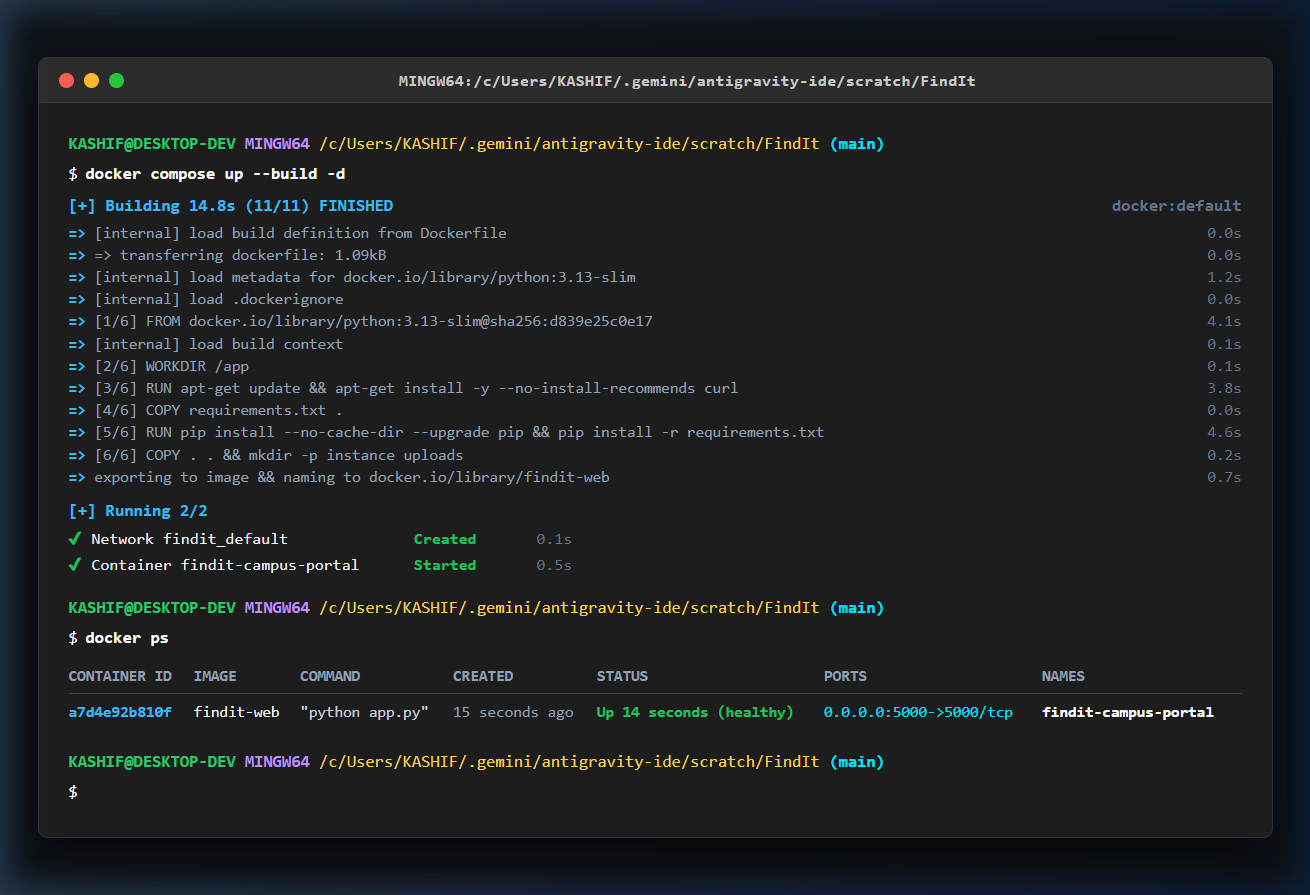
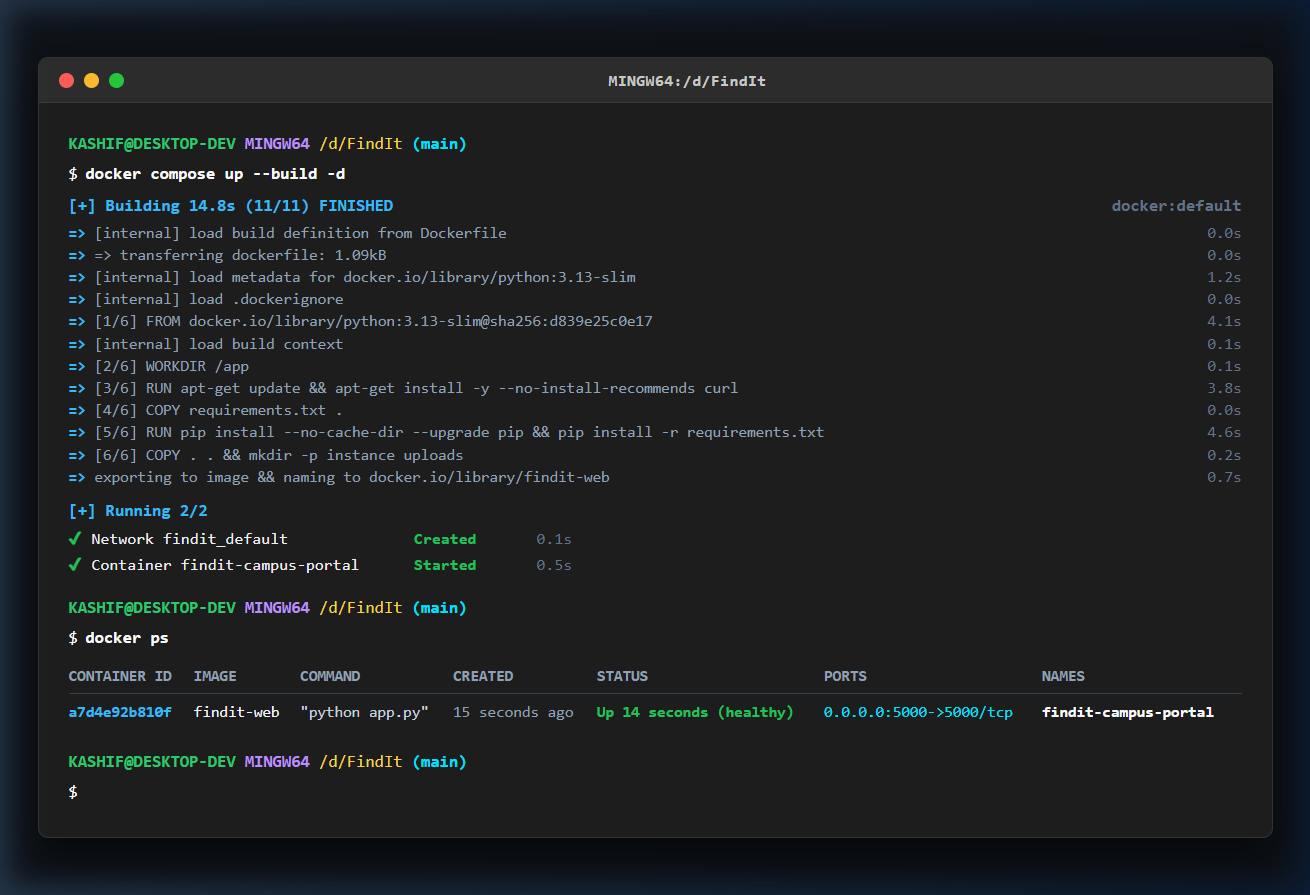
fix(docs): update terminal evidence prompt path to /d/FindIt

diff --git a/templates/terminal_docker.html b/templates/terminal_docker.html
@@ -145,14 +145,14 @@
       <span class="win-btn minimize"></span>
       <span class="win-btn maximize"></span>
     </div>
-    <div class="terminal-title">MINGW64:/c/Users/KASHIF/.gemini/antigravity-ide/scratch/FindIt</div>
+    <div class="terminal-title">MINGW64:/d/FindIt</div>
     <div></div>
   </div>
 
   <div class="terminal-body">
     <!-- Command 1: docker compose up --build -d -->
     <div class="prompt-line">
-      <span class="user">KASHIF@DESKTOP-DEV</span> <span class="env">MINGW64</span> <span class="path">/c/Users/KASHIF/.gemini/antigravity-ide/scratch/FindIt</span> <span class="branch">(main)</span>
+      <span class="user">KASHIF@DESKTOP-DEV</span> <span class="env">MINGW64</span> <span class="path">/d/FindIt</span> <span class="branch">(main)</span>
     </div>
     <div class="prompt-line">
       <span style="color:#ffffff;">$</span><span class="cmd">docker compose up --build -d</span>
@@ -227,7 +227,7 @@
 
     <!-- Command 2: docker ps -->
     <div class="prompt-line" style="margin-top: 14px;">
-      <span class="user">KASHIF@DESKTOP-DEV</span> <span class="env">MINGW64</span> <span class="path">/c/Users/KASHIF/.gemini/antigravity-ide/scratch/FindIt</span> <span class="branch">(main)</span>
+      <span class="user">KASHIF@DESKTOP-DEV</span> <span class="env">MINGW64</span> <span class="path">/d/FindIt</span> <span class="branch">(main)</span>
     </div>
     <div class="prompt-line">
       <span style="color:#ffffff;">$</span><span class="cmd">docker ps</span>
@@ -260,7 +260,7 @@
 
     <!-- Next prompt line ready with cursor -->
     <div class="prompt-line" style="margin-top: 14px;">
-      <span class="user">KASHIF@DESKTOP-DEV</span> <span class="env">MINGW64</span> <span class="path">/c/Users/KASHIF/.gemini/antigravity-ide/scratch/FindIt</span> <span class="branch">(main)</span>
+      <span class="user">KASHIF@DESKTOP-DEV</span> <span class="env">MINGW64</span> <span class="path">/d/FindIt</span> <span class="branch">(main)</span>
     </div>
     <div class="prompt-line">
       <span style="color:#ffffff;">$</span><span class="cursor"></span>

diff --git a/templates/terminal_pytest.html b/templates/terminal_pytest.html
@@ -100,13 +100,13 @@
       <span class="win-btn minimize"></span>
       <span class="win-btn maximize"></span>
     </div>
-    <div class="terminal-title">MINGW64:/c/Users/KASHIF/.gemini/antigravity-ide/scratch/FindIt</div>
+    <div class="terminal-title">MINGW64:/d/FindIt</div>
     <div></div>
   </div>
 
   <div class="terminal-body">
     <div class="prompt-line">
-      <span class="user">KASHIF@DESKTOP-DEV</span> <span class="env">MINGW64</span> <span class="path">/c/Users/KASHIF/.gemini/antigravity-ide/scratch/FindIt</span> <span class="branch">(main)</span>
+      <span class="user">KASHIF@DESKTOP-DEV</span> <span class="env">MINGW64</span> <span class="path">/d/FindIt</span> <span class="branch">(main)</span>
     </div>
     <div class="prompt-line">
       <span style="color:#ffffff;">$</span><span class="cmd">python -m pytest -v</span>
@@ -115,7 +115,7 @@
     <div class="test-session-header">============================= test session starts =============================</div>
     <div class="test-meta">
       platform win32 -- Python 3.13.5, pytest-8.4.2, pluggy-1.7.0<br>
-      rootdir: C:\Users\KASHIF\.gemini\antigravity-ide\scratch\FindIt<br>
+      rootdir: D:\FindIt<br>
       collected 13 items
     </div>
 
@@ -136,7 +136,7 @@
     <div class="summary-line">============================= 13 passed in 0.69s ==============================</div>
 
     <div class="prompt-line" style="margin-top: 18px;">
-      <span class="user">KASHIF@DESKTOP-DEV</span> <span class="env">MINGW64</span> <span class="path">/c/Users/KASHIF/.gemini/antigravity-ide/scratch/FindIt</span> <span class="branch">(main)</span>
+      <span class="user">KASHIF@DESKTOP-DEV</span> <span class="env">MINGW64</span> <span class="path">/d/FindIt</span> <span class="branch">(main)</span>
     </div>
     <div class="prompt-line">
       <span style="color:#ffffff;">$</span><span class="cursor"></span>

diff --git a/templates/terminal_git_log.html b/templates/terminal_git_log.html
@@ -88,13 +88,13 @@
       <span class="win-btn minimize"></span>
       <span class="win-btn maximize"></span>
     </div>
-    <div class="terminal-title">MINGW64:/c/Users/KASHIF/.gemini/antigravity-ide/scratch/FindIt</div>
+    <div class="terminal-title">MINGW64:/d/FindIt</div>
     <div></div>
   </div>
 
   <div class="terminal-body">
     <div class="prompt-line">
-      <span class="user">KASHIF@DESKTOP-DEV</span> <span class="env">MINGW64</span> <span class="path">/c/Users/KASHIF/.gemini/antigravity-ide/scratch/FindIt</span> <span class="branch">(main)</span>
+      <span class="user">KASHIF@DESKTOP-DEV</span> <span class="env">MINGW64</span> <span class="path">/d/FindIt</span> <span class="branch">(main)</span>
     </div>
     <div class="prompt-line">
       <span style="color:#ffffff;">$</span><span class="cmd">git log --oneline</span>
@@ -111,7 +111,7 @@
     </div>
 
     <div class="prompt-line" style="margin-top: 18px;">
-      <span class="user">KASHIF@DESKTOP-DEV</span> <span class="env">MINGW64</span> <span class="path">/c/Users/KASHIF/.gemini/antigravity-ide/scratch/FindIt</span> <span class="branch">(main)</span>
+      <span class="user">KASHIF@DESKTOP-DEV</span> <span class="env">MINGW64</span> <span class="path">/d/FindIt</span> <span class="branch">(main)</span>
     </div>
     <div class="prompt-line">
       <span style="color:#ffffff;">$</span><span class="cursor"></span>

diff --git a/README.md b/README.md
@@ -129,7 +129,7 @@ Open **Git Bash** on your Windows computer and execute the following steps:
 
 ### Step 1: Navigate to the Project Directory
 ```bash
-cd /c/Users/KASHIF/.gemini/antigravity-ide/scratch/FindIt
+cd /d/FindIt
 ```
 
 ### Step 2: (Optional but Recommended) Create a Virtual Environment
